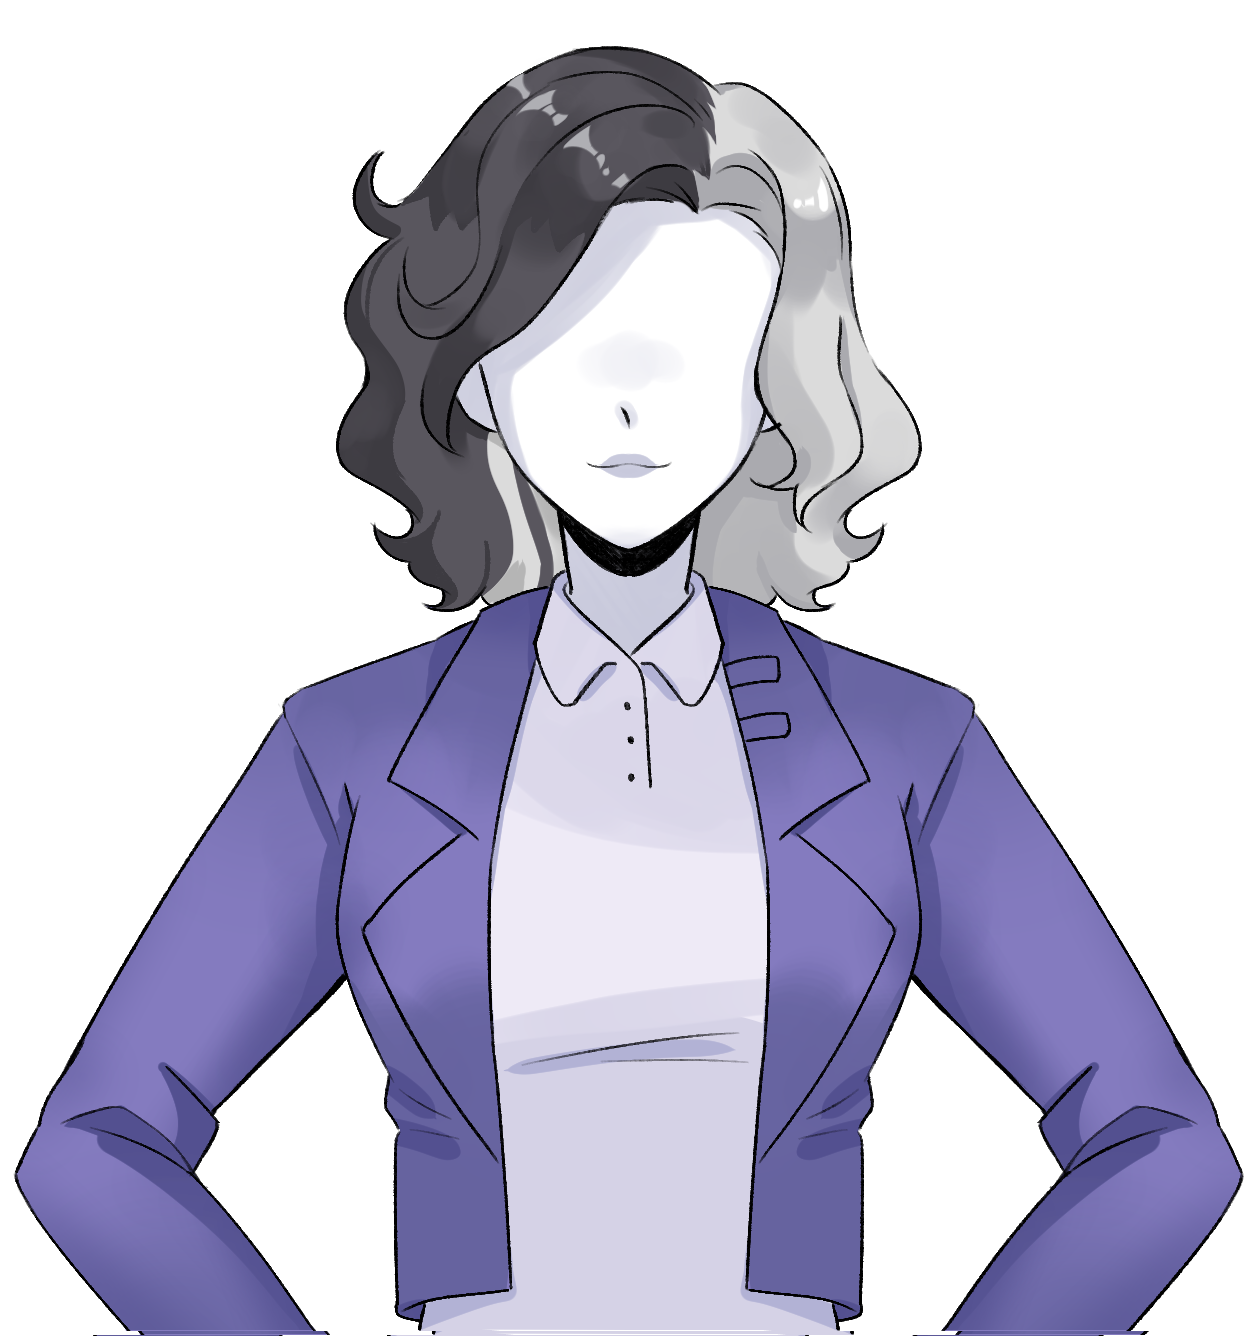
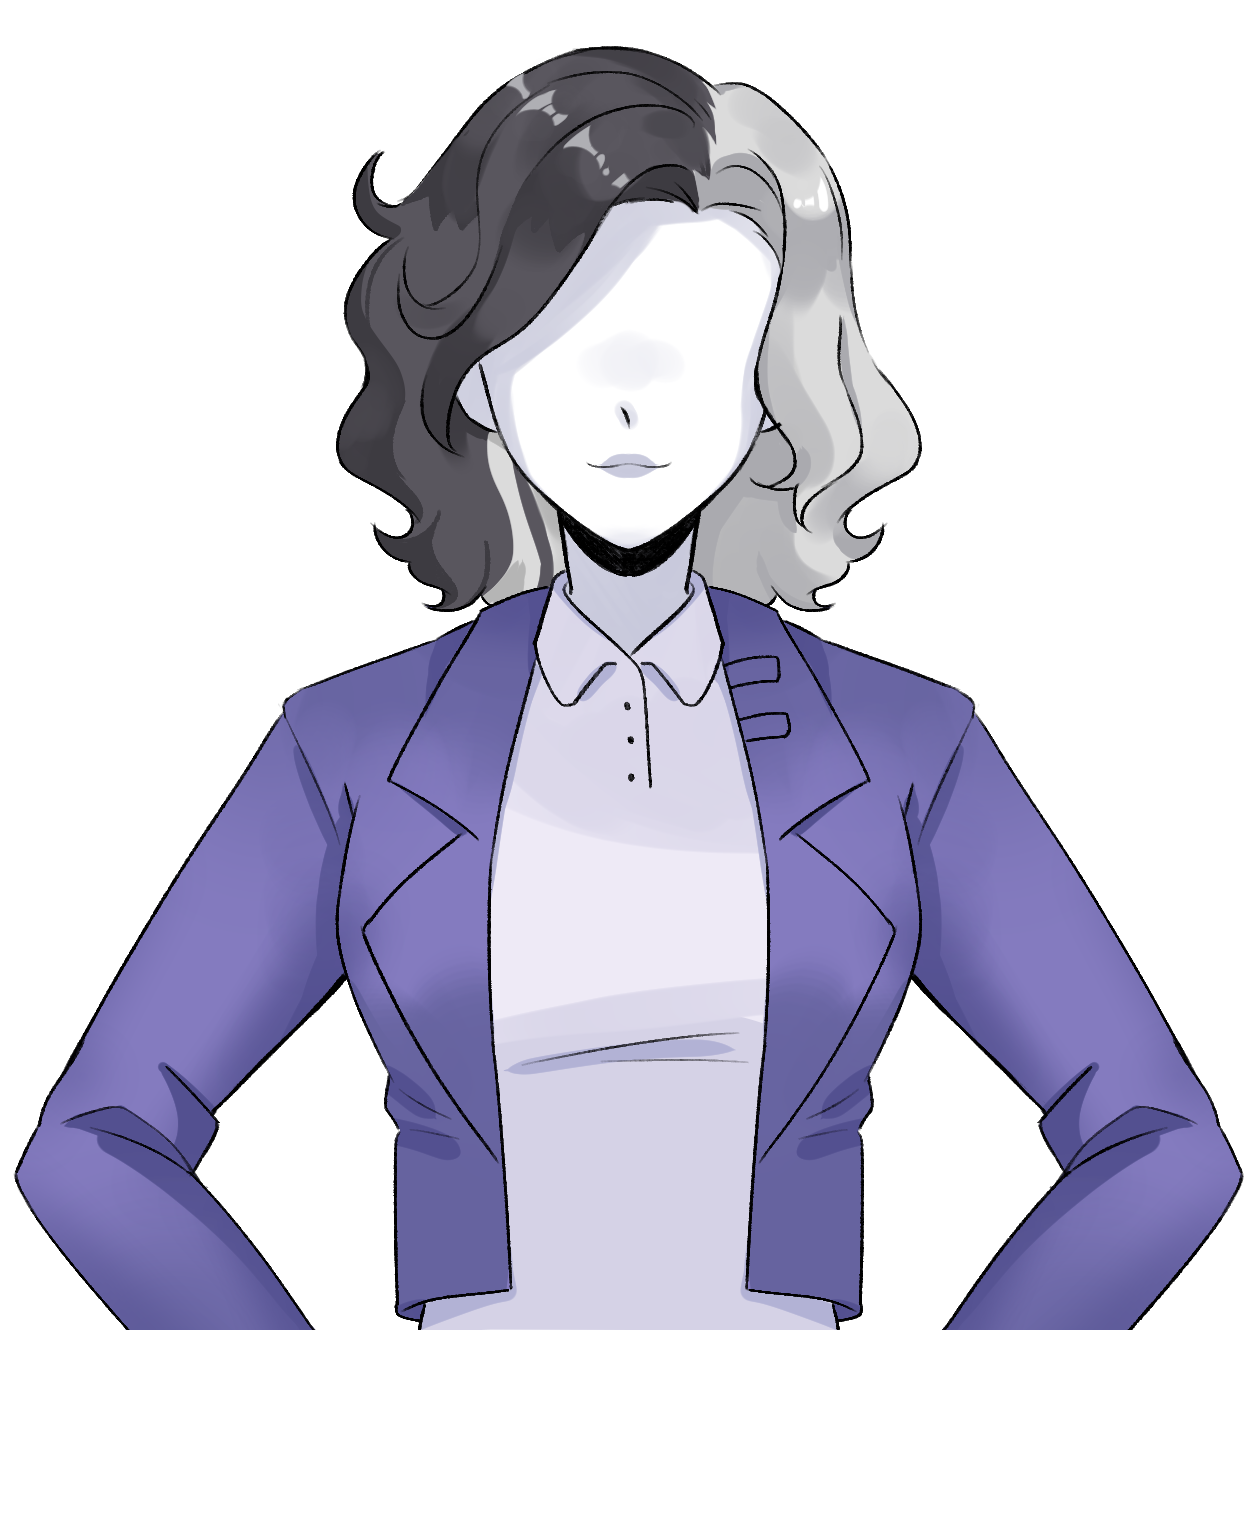
Fitting characters on screen

diff --git a/style.css b/style.css
@@ -37,7 +37,7 @@ body {
 }
 
 .Sprites #SpriteRight {
-    bottom: -100vh;
+    bottom: -110.7vh;
     right: 2vw;
     position: absolute;
     display: none;
